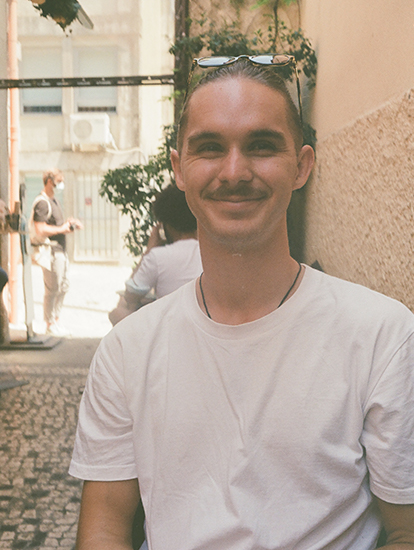
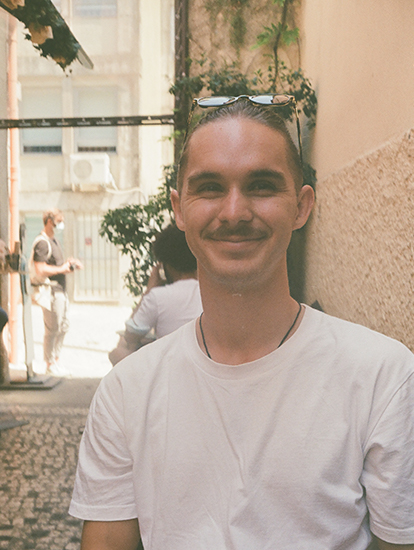
- another attempt to fix sass loader issue - changing some pictures

diff --git a/src/styles/people_detail.scss b/src/styles/people_detail.scss
@@ -4,6 +4,10 @@
         background-position: center;
         background-size: cover;
         background-repeat: no-repeat;
+        @media screen and (min-width: 469px) {
+            max-width: 475px;
+            margin: 0 auto;
+        }
     }
     .detail-container {
 
@@ -11,8 +15,6 @@
             .profile-title {
                 background: white;
                 padding: 30px 0 0 15px;
-                //border-radius: 15px;
-                //border: 1px solid rgba(0,0,0, 0.1);
                 margin-bottom: 20px;
 
                 h1.editorial {

diff --git a/src/components/home.js b/src/components/home.js
@@ -6,7 +6,9 @@ import Footer from './footer';
 
 const Home = () => {
     const scrollElem = useRef(null);
-    const executeScroll = () => scrollElem.current.scrollIntoView()    
+    const executeScroll = () => scrollElem.current.scrollIntoView({
+        behavior: 'smooth'
+    })    
 
     useEffect(()=>{
         window.scrollTo(0, 0)

diff --git a/src/App.scss b/src/App.scss
@@ -63,6 +63,12 @@ body {
         padding-top: 150px;
     }
 
+    .container {
+        @media screen and (min-width: 469px) {
+            max-width: 475px;
+        }
+    }
+
     .grid-bg {
         background-color: $black;
         position: relative;
